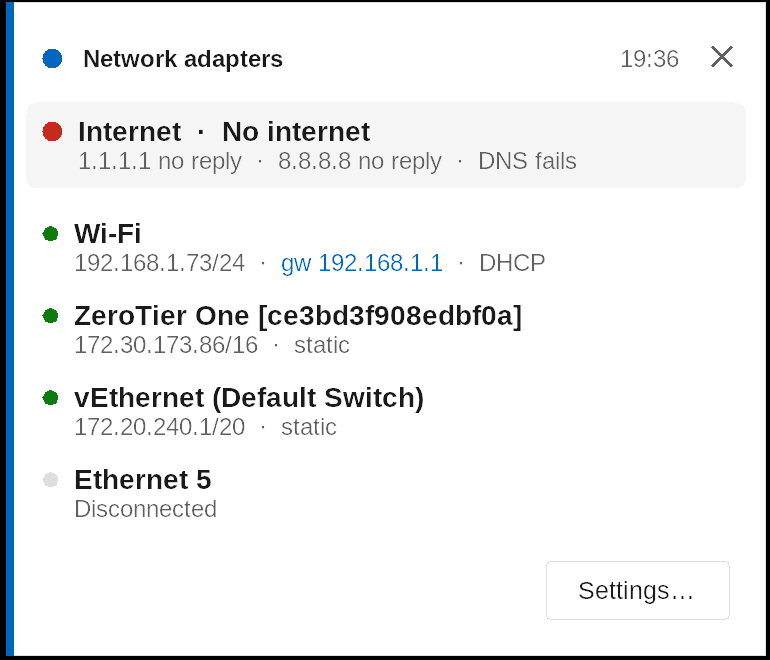
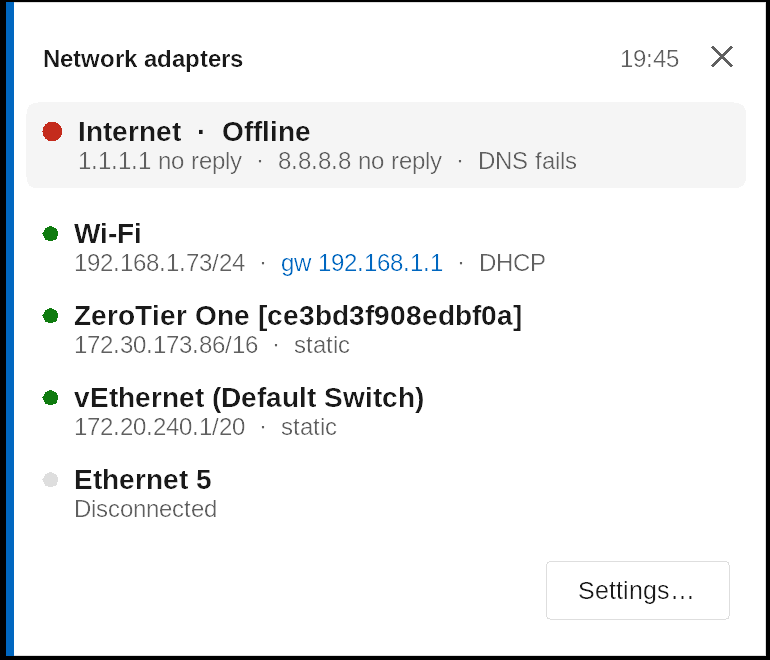
Quick static IP / DHCP on any adapter; drop pop-up title dot
- Click an adapter in the overview: Set static IP..., Switch to DHCP, Copy IP
- Quick changes apply once via a side file (quick.json) and don't create profiles
- Text boxes re-centre after DPI scaling

Claude-Session: https://claude.ai/code/session_01XZhUghQej8EaLitpCgWDyS

Changed region(s): [[0.0623, 0.0606, 0.374, 0.1212], [0.2805, 0.1818, 0.4987, 0.2121], [0.8416, 0.0606, 0.8727, 0.1212]]

diff --git a/src/QuickIpForm.cs b/src/QuickIpForm.cs
@@ -1,0 +1,132 @@
+namespace NetSwitch;
+
+/// <summary>Small dialog to put a static IP on an adapter right now, without making a profile.</summary>
+public sealed class QuickIpForm : Form
+{
+    readonly Theme _t = Theme.Current;
+    readonly AdapterInfo _a;
+    readonly ModernTextBox _ip, _mask, _gw, _dns1, _dns2;
+    readonly Label _error;
+    public Profile? Result { get; private set; }
+
+    public QuickIpForm(AdapterInfo a)
+    {
+        _a = a;
+        SuspendLayout();
+        AutoScaleDimensions = new SizeF(96F, 96F);
+        AutoScaleMode = AutoScaleMode.Dpi;
+        Text = $"Static IP · {a.Name}";
+        Font = Theme.UiFont(9f);
+        BackColor = _t.Window;
+        ForeColor = _t.Text;
+        FormBorderStyle = FormBorderStyle.FixedDialog;
+        MaximizeBox = MinimizeBox = false;
+        ShowInTaskbar = true;
+        TopMost = true;
+        StartPosition = FormStartPosition.CenterScreen;
+        ClientSize = new Size(520, 300);
+        Padding = new Padding(20, 16, 20, 16);
+
+        var cur = a.Addresses.Count > 0 ? a.Addresses[0] : (Ip: "", Mask: "");
+        TextBox(out _ip, cur.Ip, "192.168.1.50 or 192.168.1.50/24");
+        TextBox(out _mask, cur.Mask.Length > 0 ? cur.Mask : "255.255.255.0", "255.255.255.0 or 24");
+        TextBox(out _gw, a.Gateways.FirstOrDefault() ?? "", "optional");
+        TextBox(out _dns1, a.Dns.ElementAtOrDefault(0) ?? "", "optional");
+        TextBox(out _dns2, a.Dns.ElementAtOrDefault(1) ?? "", "optional");
+
+        _ip.Leave += (_, _) =>
+        {
+            var (ip, mask) = IpUtil.SplitIp(_ip.Text);
+            if (mask == null || !IpUtil.IsIPv4(ip)) return;
+            _ip.Text = ip; _mask.Text = mask;
+        };
+        _mask.Leave += (_, _) =>
+        {
+            var t = _mask.Text.Trim();
+            if (t.Length > 0 && !IpUtil.IsIPv4(t) && IpUtil.NormalizeMask(t) is { } dotted) _mask.Text = dotted;
+        };
+
+        var title = Ui.Label(_t, $"Static IP on {a.Name}", 12f, FontStyle.Bold);
+        var current = a.Addresses.Count == 0 ? "No IPv4 address right now"
+            : $"Now: {cur.Ip}/{NetInfo.PrefixLength(cur.Mask)} ({(a.Dhcp ? "DHCP" : "static")})";
+        var sub = Ui.Label(_t, current + ". This applies once and doesn't create a profile.", 8.75f, sub: true);
+        sub.MaximumSize = new Size(440, 0);
+        sub.Margin = new Padding(0, 2, 0, 12);
+
+        var grid = new TableLayoutPanel { ColumnCount = 2, AutoSize = true, Dock = DockStyle.Top, BackColor = _t.Window, Margin = new Padding(0) };
+        grid.ColumnStyles.Add(new ColumnStyle(SizeType.Percent, 50));
+        grid.ColumnStyles.Add(new ColumnStyle(SizeType.Percent, 50));
+        grid.Controls.Add(Field("IP address", _ip));
+        grid.Controls.Add(Field("Subnet mask", _mask));
+        grid.Controls.Add(Field("Gateway", _gw));
+        grid.Controls.Add(new Label { Width = 1, Height = 1, Margin = new Padding(0) });
+        grid.Controls.Add(Field("DNS 1", _dns1));
+        grid.Controls.Add(Field("DNS 2", _dns2));
+
+        _error = Ui.Label(_t, "", 8.75f);
+        _error.ForeColor = _t.Danger;
+        _error.MaximumSize = new Size(440, 0);
+        _error.Margin = new Padding(0, 0, 0, 6);
+
+        var apply = new ModernButton(_t, "Apply", primary: true) { Width = 100, Margin = new Padding(8, 0, 0, 0) };
+        var cancel = new ModernButton(_t, "Cancel") { Width = 100, Margin = new Padding(0) };
+        apply.Click += (_, _) => TryApply();
+        cancel.Click += (_, _) => { DialogResult = DialogResult.Cancel; Close(); };
+        var buttons = new FlowLayoutPanel { FlowDirection = FlowDirection.RightToLeft, AutoSize = true, Dock = DockStyle.Fill, BackColor = _t.Window, Margin = new Padding(0, 6, 0, 0), WrapContents = false };
+        buttons.Controls.Add(apply);
+        buttons.Controls.Add(cancel);
+        AcceptButton = apply;
+
+        var stack = new TableLayoutPanel { ColumnCount = 1, AutoSize = true, Dock = DockStyle.Fill, BackColor = _t.Window };
+        stack.Controls.Add(title);
+        stack.Controls.Add(sub);
+        stack.Controls.Add(grid);
+        stack.Controls.Add(_error);
+        stack.Controls.Add(buttons);
+        Controls.Add(stack);
+        ResumeLayout(true);
+        Shown += (_, _) => { Activate(); _ip.Focus(); _ip.SelectAll(); };
+    }
+
+    void TextBox(out ModernTextBox box, string text, string placeholder)
+    {
+        box = new ModernTextBox(_t) { Text = text, PlaceholderText = placeholder };
+    }
+
+    Control Field(string caption, Control input)
+    {
+        var f = Ui.Field(_t, caption, input);
+        f.BackColor = _t.Window;
+        foreach (Control c in f.Controls) if (c is Label) c.BackColor = _t.Window;
+        return f;
+    }
+
+    void TryApply()
+    {
+        // Same shortcuts as the editor, in case Enter was pressed straight from a box.
+        var (ip, prefixMask) = IpUtil.SplitIp(_ip.Text.Trim());
+        var mask = prefixMask ?? (IpUtil.IsIPv4(_mask.Text.Trim()) ? _mask.Text.Trim() : IpUtil.NormalizeMask(_mask.Text) ?? _mask.Text.Trim());
+        var dns = new[] { _dns1.Text.Trim(), _dns2.Text.Trim() }.Where(d => d.Length > 0).ToList();
+        var p = new Profile
+        {
+            Name = $"Static {ip} on {_a.Name}",
+            Adapter = _a.Name,
+            Dhcp = false,
+            Ip = ip,
+            Mask = mask,
+            Gateway = _gw.Text.Trim(),
+            Dns = dns,
+            DnsAuto = false,
+        };
+        if (IpUtil.Validate(p) is { } problem) { _error.Text = problem; return; }
+        Result = p;
+        DialogResult = DialogResult.OK;
+        Close();
+    }
+
+    protected override void OnHandleCreated(EventArgs e)
+    {
+        base.OnHandleCreated(e);
+        _t.ApplyWindowChrome(this);
+    }
+}

diff --git a/src/Popup.cs b/src/Popup.cs
@@ -41,6 +41,13 @@ public sealed record PopupEntry(string Name, string Line, string? Copy, bool Up,
     public string? Hint { get; init; }
     /// <summary>Hint shown on the right all the time, in the accent colour (e.g. "Active").</summary>
     public string? Badge { get; init; }
+    /// <summary>When set, clicking the entry opens this menu (null text = separator). Takes precedence over Copy.</summary>
+    public List<PopupAction>? Actions { get; init; }
+}
+
+public sealed record PopupAction(string? Text, string Detail = "", Action? Run = null)
+{
+    public static readonly PopupAction Separator = new(null);
 }
 
 /// <summary>Custom notification window: bottom-right, no focus stealing, stacks, rich content.</summary>
@@ -363,10 +370,8 @@ public sealed class PopupForm : Form
         // Left accent stripe.
         using (var stripe = new SolidBrush(accent)) g.FillRectangle(stripe, 0, 0, Px(4), Height);
 
-        // Title row: app icon dot, title, time, close.
-        int dot = Px(10);
-        using (var b = new SolidBrush(accent)) g.FillEllipse(b, x, y + Px(5), dot, dot);
-        var titleRect = new Rectangle(x + dot + Px(8), y, w - Px(90), Px(20));
+        // Title row: title, time, close.
+        var titleRect = new Rectangle(x - Px(2), y, w - Px(80), Px(20));
         TextRenderer.DrawText(g, _c.Title, _fTitle, titleRect, _t.Text, TextFormatFlags.VerticalCenter | TextFormatFlags.EndEllipsis);
         var time = DateTime.Now.ToString("HH:mm");
         var tw = TextRenderer.MeasureText(time, _fSub).Width;
@@ -456,7 +461,7 @@ public sealed class PopupForm : Form
             var (name, line, copy, up, gw, rest) = _c.Entries[i];
             var r = _entryRects[i];
             var entry = _c.Entries[i];
-            bool clickable = copy != null || entry.Click != null;
+            bool clickable = copy != null || entry.Click != null || entry.Actions != null;
             if (i == _hoverEntry && clickable)
                 using (var hb = new SolidBrush(_t.SurfaceHover)) using (var hp = Theme.RoundRect(r, 5)) g.FillPath(hb, hp);
             int lh = TextRenderer.MeasureText("Ag", _fHeading).Height;
@@ -476,7 +481,7 @@ public sealed class PopupForm : Form
             TextRenderer.DrawText(g, name, _fHeading, new Rectangle(tx, r.Y + Px(5), etw - Px(60), lh), _t.Text, flags);
             if (i == _copiedEntry || (i == _hoverEntry && clickable) || entry.Badge != null)
             {
-                var hint = i == _copiedEntry ? "Copied" : entry.Badge ?? entry.Hint ?? "Copy IP";
+                var hint = i == _copiedEntry ? "Copied" : entry.Badge ?? entry.Hint ?? (entry.Actions != null ? "Options" : "Copy IP");
                 var hc = i == _copiedEntry ? _t.Success : entry.Badge != null ? _t.Accent : _t.SubText;
                 TextRenderer.DrawText(g, hint, _fSub, new Rectangle(tx, r.Y + Px(5), etw, lh), hc,
                     TextFormatFlags.Right | TextFormatFlags.VerticalCenter | TextFormatFlags.NoPadding);
@@ -520,7 +525,7 @@ public sealed class PopupForm : Form
         int he = _entryRects.FindIndex(r => r.Contains(e.Location));
         int hg = GatewayAt(e.Location);
         if (he != _hoverEntry || hg != _hoverGw) { _hoverEntry = he; _hoverGw = hg; Invalidate(); }
-        Cursor = h || hg >= 0 || (he >= 0 && (_c.Entries[he].Copy != null || _c.Entries[he].Click != null)) ? Cursors.Hand : Cursors.Default;
+        Cursor = h || hg >= 0 || (he >= 0 && (_c.Entries[he].Copy != null || _c.Entries[he].Click != null || _c.Entries[he].Actions != null)) ? Cursors.Hand : Cursors.Default;
     }
 
     protected override void OnMouseLeave(EventArgs e) { _closeHover = false; _hoverEntry = -1; _hoverGw = -1; Invalidate(); }
@@ -529,6 +534,21 @@ public sealed class PopupForm : Form
     {
         foreach (var (i, r) in _gwRects) if (r.Contains(p)) return i;
         return -1;
+    }
+
+    void ShowActions(string header, List<PopupAction> actions, Point at)
+    {
+        _toolsMenu?.Dispose();
+        var m = _toolsMenu = new ContextMenuStrip { ShowImageMargin = false, Font = _fBody, Renderer = new MenuRenderer(_t), BackColor = _t.Surface, Padding = new Padding(0, 4, 0, 4) };
+        m.Items.Add(new ToolStripMenuItem(header) { Enabled = false, Tag = "header", Padding = new Padding(4, 4, 4, 2) });
+        foreach (var a in actions)
+        {
+            if (a.Text == null) { m.Items.Add(new ToolStripSeparator()); continue; }
+            var run = a.Run;
+            m.Items.Add(new ToolStripMenuItem(a.Text, null, (_, _) => run?.Invoke())
+            { Padding = new Padding(4, 5, 4, 5), ShortcutKeyDisplayString = a.Detail, ShowShortcutKeys = a.Detail.Length > 0, Enabled = run != null });
+        }
+        m.Show(this, at);
     }
 
     void ShowGatewayTools(int i)
@@ -562,6 +582,11 @@ public sealed class PopupForm : Form
         if (g >= 0) { ShowGatewayTools(g); return; }
         int i = _entryRects.FindIndex(r => r.Contains(e.Location));
         if (i >= 0 && _c.Entries[i].Click is { } click) { BeginClose(); click(); return; }
+        if (i >= 0 && _c.Entries[i].Actions is { Count: > 0 } actions)
+        {
+            ShowActions(_c.Entries[i].Name, actions, new Point(e.X, e.Y + Px(4)));
+            return;
+        }
         if (i >= 0 && _c.Entries[i].Copy is { } ip)
         {
             try { Clipboard.SetText(ip); _copiedEntry = i; Invalidate(); } catch { }

diff --git a/src/TrayApp.cs b/src/TrayApp.cs
@@ -146,7 +146,7 @@ public sealed class TrayApp : ApplicationContext
     void ToggleOverview() => TogglePanel("overview", () =>
     {
         var visible = NetInfo.Ordered(NetInfo.Snapshot().Values).Where(a => !_cfg.IsHidden(a.Name));
-        return PopupBuilder.Overview(visible, _cfg.Profiles);
+        return PopupBuilder.Overview(visible, _cfg.Profiles, AdapterActions);
     });
 
     void BuildMenu()
@@ -223,6 +223,38 @@ public sealed class TrayApp : ApplicationContext
         if (_invoker.InvokeRequired) _invoker.BeginInvoke(show); else show();
     }
 
+    // ---------------- quick static / DHCP on any adapter ----------------
+
+    List<PopupAction> AdapterActions(AdapterInfo a)
+    {
+        var ip = a.Addresses.Count > 0 ? a.Addresses[0].Ip : null;
+        var list = new List<PopupAction>
+        {
+            new("Set static IP…", "", () => QuickStatic(a)),
+            new("Switch to DHCP", a.Dhcp ? "already on" : "", () => _ = ApplyQuickAsync(new Profile { Name = $"DHCP on {a.Name}", Adapter = a.Name, Dhcp = true, DnsAuto = true })),
+        };
+        list.Add(PopupAction.Separator);
+        list.Add(new("Copy IP", ip ?? "", ip == null ? null : () => RunTool("copy", ip)));
+        return list;
+    }
+
+    void QuickStatic(AdapterInfo a)
+    {
+        _panel?.Dismiss();
+        using var f = new QuickIpForm(a);
+        if (f.ShowDialog() == DialogResult.OK && f.Result is { } p) _ = ApplyQuickAsync(p);
+    }
+
+    /// <summary>Applies a one-off profile without saving it: the elevated helper reads it from a side file.</summary>
+    Task ApplyQuickAsync(Profile p)
+    {
+        var quick = new AppConfig { Profiles = { p } };
+        var path = Path.Combine(Path.GetDirectoryName(_cfg.Path)!, "quick.json");
+        try { quick.SaveAs(path); }
+        catch (Exception ex) { Popup(PopupBuilder.Error("Could not switch", ex.Message)); return Task.CompletedTask; }
+        return ApplyAsync(p, path);
+    }
+
     // ---------------- network tools ----------------
 
     /// <summary>Opens a console running ping/tracert/pathping against an address, or the router page.</summary>
@@ -256,8 +288,9 @@ public sealed class TrayApp : ApplicationContext
 
     // ---------------- switching ----------------
 
-    async Task ApplyAsync(Profile p)
+    async Task ApplyAsync(Profile p, string? configPath = null)
     {
+        configPath ??= _cfg.Path;
         if (_busy) return;
         var problem = IpUtil.Validate(p);
         if (problem != null) { Popup(PopupBuilder.Error("Profile has a problem", problem)); return; }
@@ -274,10 +307,10 @@ public sealed class TrayApp : ApplicationContext
             }
             else
             {
-                var code = await Elevation.RunElevatedAsync("--apply", p.Name, "--config", _cfg.Path);
+                var code = await Elevation.RunElevatedAsync("--apply", p.Name, "--config", configPath);
                 if (code == null) return; // UAC cancelled, nothing to say
                 ok = code == 0;
-                msg = ReadResult() ?? (ok ? $"Switched to \"{p.Name}\"." : "Switching failed.");
+                msg = ReadResult(configPath) ?? (ok ? $"Switched to \"{p.Name}\"." : "Switching failed.");
             }
             if (ok)
             {
@@ -319,11 +352,11 @@ public sealed class TrayApp : ApplicationContext
 
     static string CurrentUser() => $@"{Environment.UserDomainName}\{Environment.UserName}";
 
-    string? ReadResult()
+    string? ReadResult(string? configPath = null)
     {
         try
         {
-            var f = Elevation.ResultFile(_cfg.Path);
+            var f = Elevation.ResultFile(configPath ?? _cfg.Path);
             if (!File.Exists(f)) return null;
             var text = File.ReadAllText(f).Trim();
             File.Delete(f);

diff --git a/src/PopupBuilder.cs b/src/PopupBuilder.cs
@@ -89,12 +89,13 @@ public static class PopupBuilder
     }
 
     /// <summary>Right-click overview: every visible adapter with its address.</summary>
-    public static PopupContent Overview(IEnumerable<AdapterInfo> adapters, IEnumerable<Profile> profiles)
+    public static PopupContent Overview(IEnumerable<AdapterInfo> adapters, IEnumerable<Profile> profiles,
+        Func<AdapterInfo, List<PopupAction>>? actions = null)
     {
         var entries = new List<PopupEntry>();
         foreach (var a in adapters)
         {
-            if (!a.IsUp) { entries.Add(new PopupEntry(a.Name, "Disconnected", null, false)); continue; }
+            if (!a.IsUp) { entries.Add(new PopupEntry(a.Name, "Disconnected", null, false) { Actions = actions?.Invoke(a) }); continue; }
             var ips = a.Addresses.Count == 0 ? "No IPv4 address" : string.Join(", ", a.Addresses.Select(x => x.Mask.Length > 0 ? $"{x.Ip}/{NetInfo.PrefixLength(x.Mask)}" : x.Ip));
             var rest = new List<string> { a.ModeText };
             var speed = NetInfo.FormatSpeed(a.SpeedBps);
@@ -102,7 +103,7 @@ public static class PopupBuilder
             var match = profiles.FirstOrDefault(p => string.Equals(p.Adapter, a.Name, StringComparison.OrdinalIgnoreCase) && NetInfo.Matches(p, a));
             if (match != null) rest.Add(match.Name);
             var gw = a.Gateways.FirstOrDefault(g => System.Net.IPAddress.TryParse(g, out _));
-            entries.Add(new PopupEntry(a.Name, ips, a.Addresses.FirstOrDefault().Ip, true, gw, string.Join("  ·  ", rest)));
+            entries.Add(new PopupEntry(a.Name, ips, a.Addresses.FirstOrDefault().Ip, true, gw, string.Join("  ·  ", rest)) { Actions = actions?.Invoke(a) });
         }
         return new PopupContent
         {

diff --git a/src/Controls.cs b/src/Controls.cs
@@ -51,6 +51,8 @@ public class ModernTextBox : Control
     public override Font Font { get => base.Font; set { base.Font = value; _box.Font = value; LayoutBox(); } }
     protected override void OnFontChanged(EventArgs e) { base.OnFontChanged(e); _box.Font = Font; LayoutBox(); }
     protected override void OnResize(EventArgs e) { base.OnResize(e); LayoutBox(); }
+    // DPI scaling moves the inner box after our own layout, so re-centre it on every layout pass.
+    protected override void OnLayout(LayoutEventArgs e) { base.OnLayout(e); LayoutBox(); }
     protected override void OnClick(EventArgs e) { base.OnClick(e); _box.Focus(); }
     protected override void OnGotFocus(EventArgs e) { base.OnGotFocus(e); _box.Focus(); }
     protected override void OnEnabledChanged(EventArgs e)
@@ -62,7 +64,8 @@ public class ModernTextBox : Control
     }
     void LayoutBox()
     {
-        int pad = 10;
+        if (_box == null) return;
+        int pad = LogicalToDeviceUnits(10);
         _box.Width = Math.Max(10, Width - pad * 2);
         _box.Location = new Point(pad, Math.Max(2, (Height - _box.Height) / 2));
     }

diff --git a/src/Preview.cs b/src/Preview.cs
@@ -46,6 +46,10 @@ static class Preview
                 oh.Shown += (_, _) => PopupForm.Show(PopupBuilder.Overview(fake, cfg.Profiles), 600);
                 Application.Run(oh);
                 break;
+            case "quick":
+                var qa = new AdapterInfo("Wi-Fi", "MediaTek Wi-Fi 6 MT7921", true, true, new List<(string, string)> { ("192.168.1.73", "255.255.255.0") }, new List<string> { "192.168.1.1" }, new List<string> { "192.168.1.1" });
+                Application.Run(new QuickIpForm(qa));
+                break;
             case "profiles":
                 var ph = new Form { ShowInTaskbar = false, Opacity = 0, Size = new Size(1, 1) };
                 var psnap = new Dictionary<string, AdapterInfo>(StringComparer.OrdinalIgnoreCase);

diff --git a/src/Config.cs b/src/Config.cs
@@ -81,6 +81,8 @@ public sealed class AppConfig
         return cfg;
     }
 
+    public void SaveAs(string path) { Path = path; Save(); }
+
     public void Save()
     {
         Directory.CreateDirectory(System.IO.Path.GetDirectoryName(Path)!);
